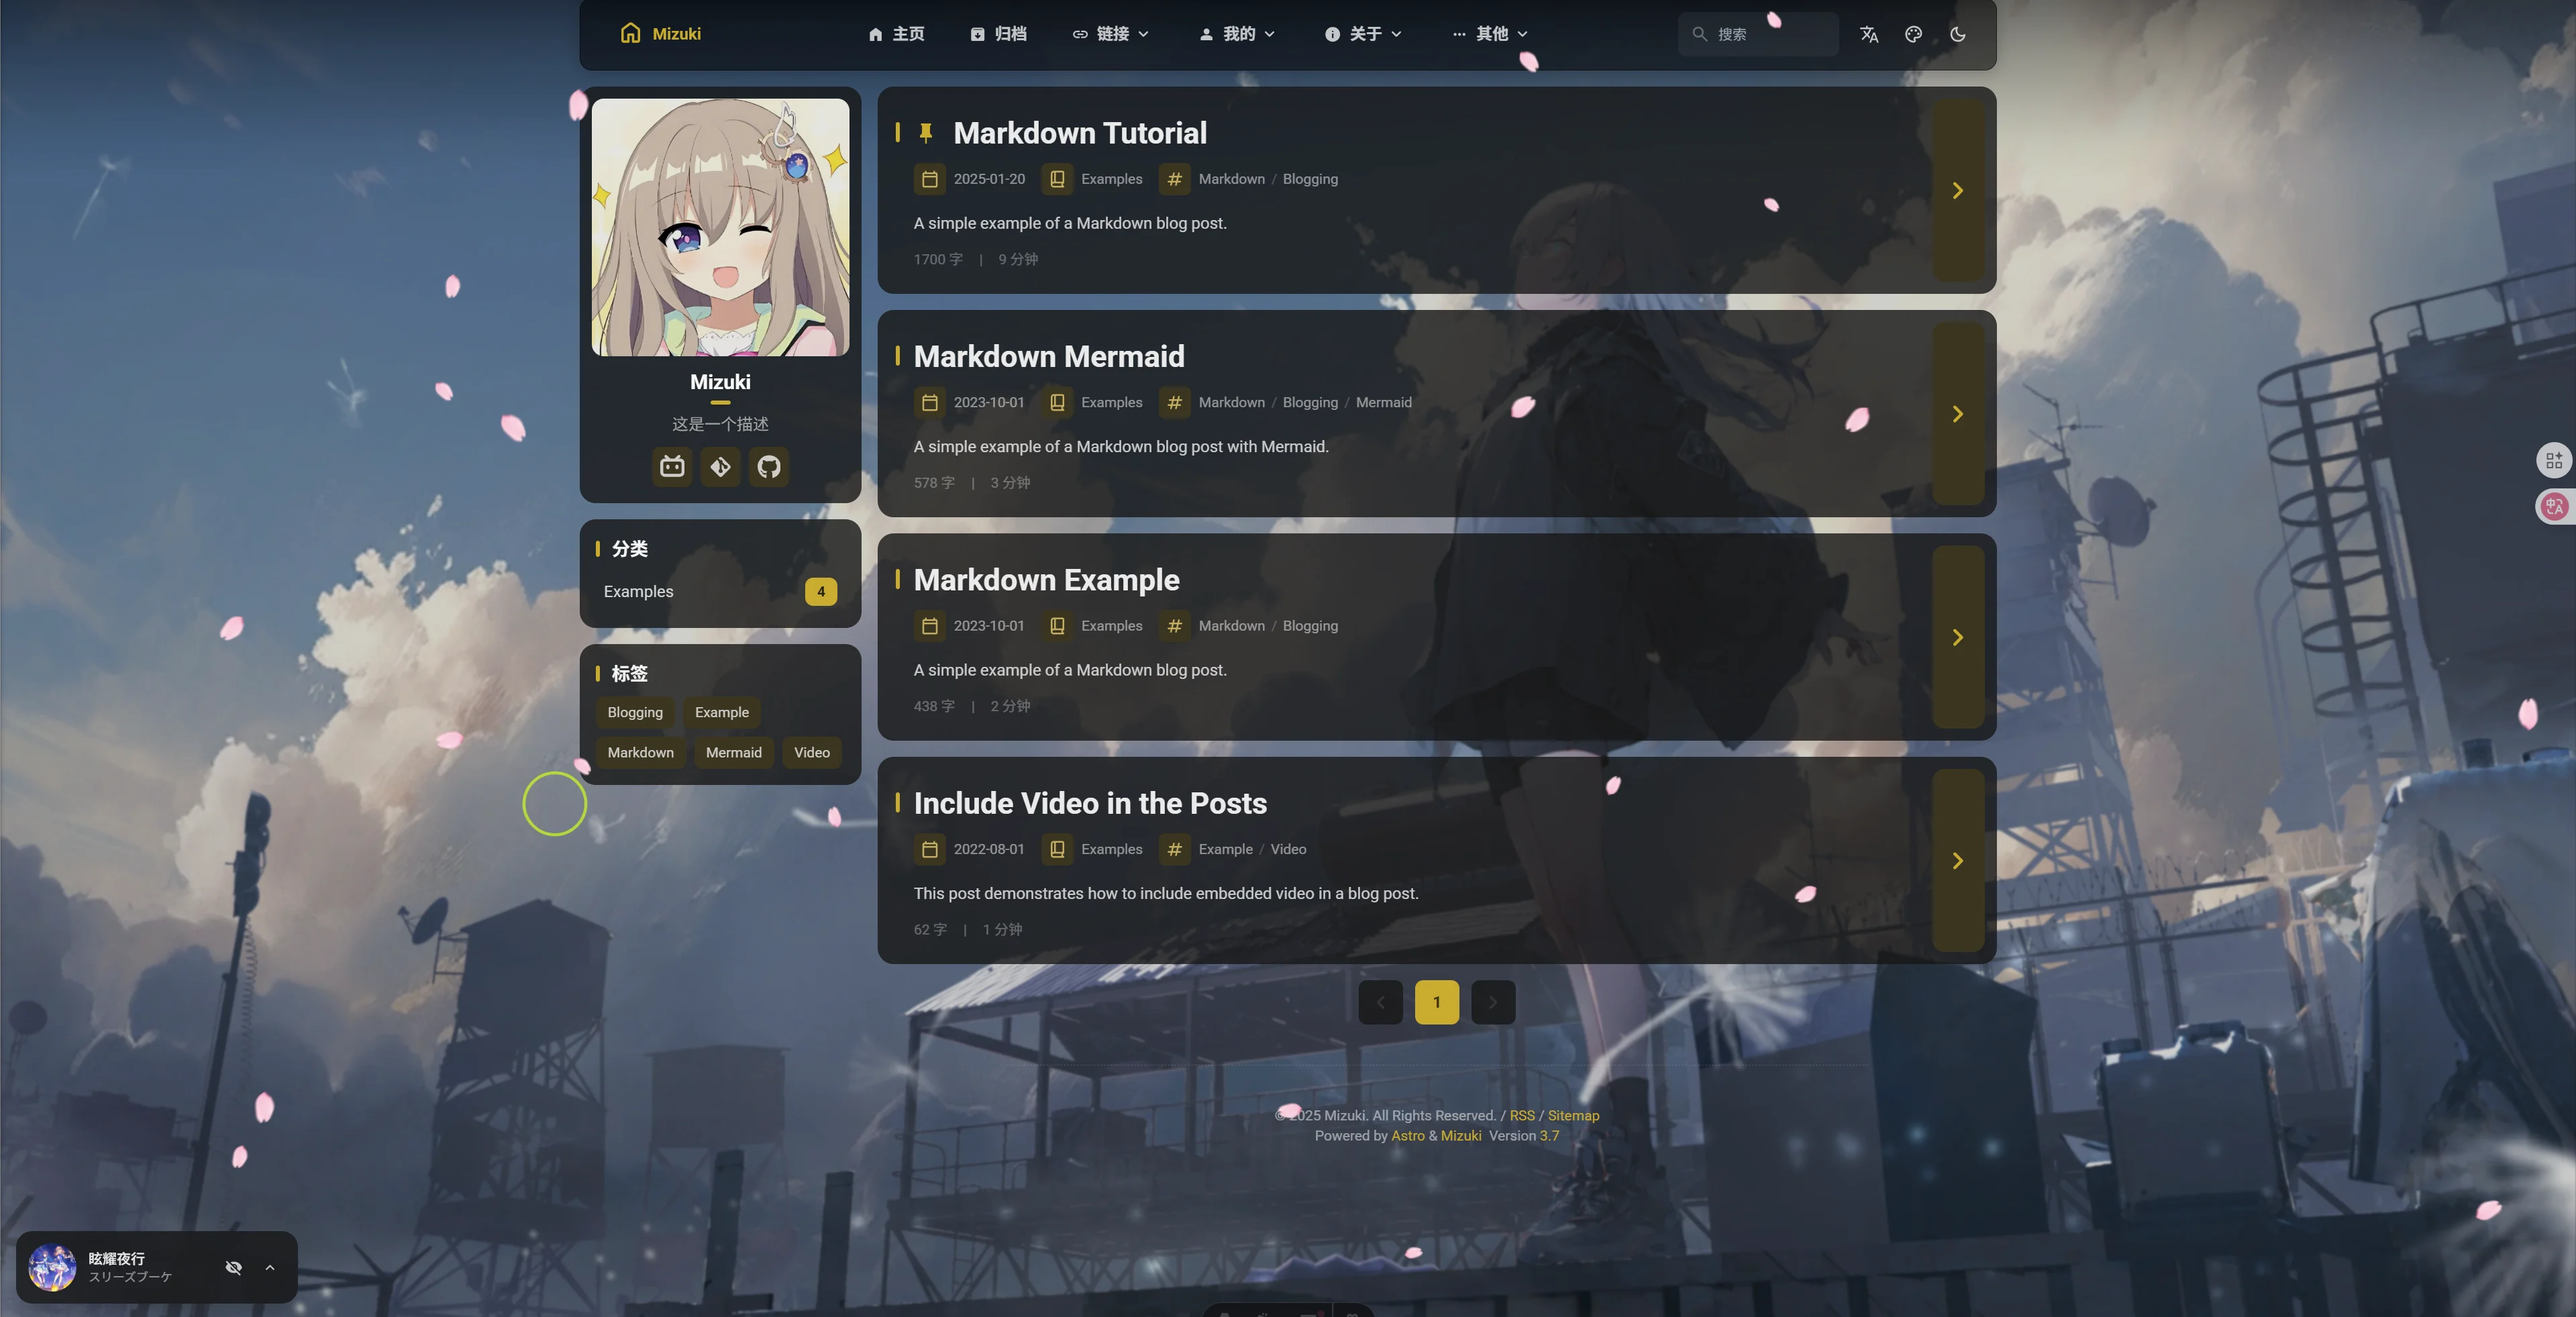
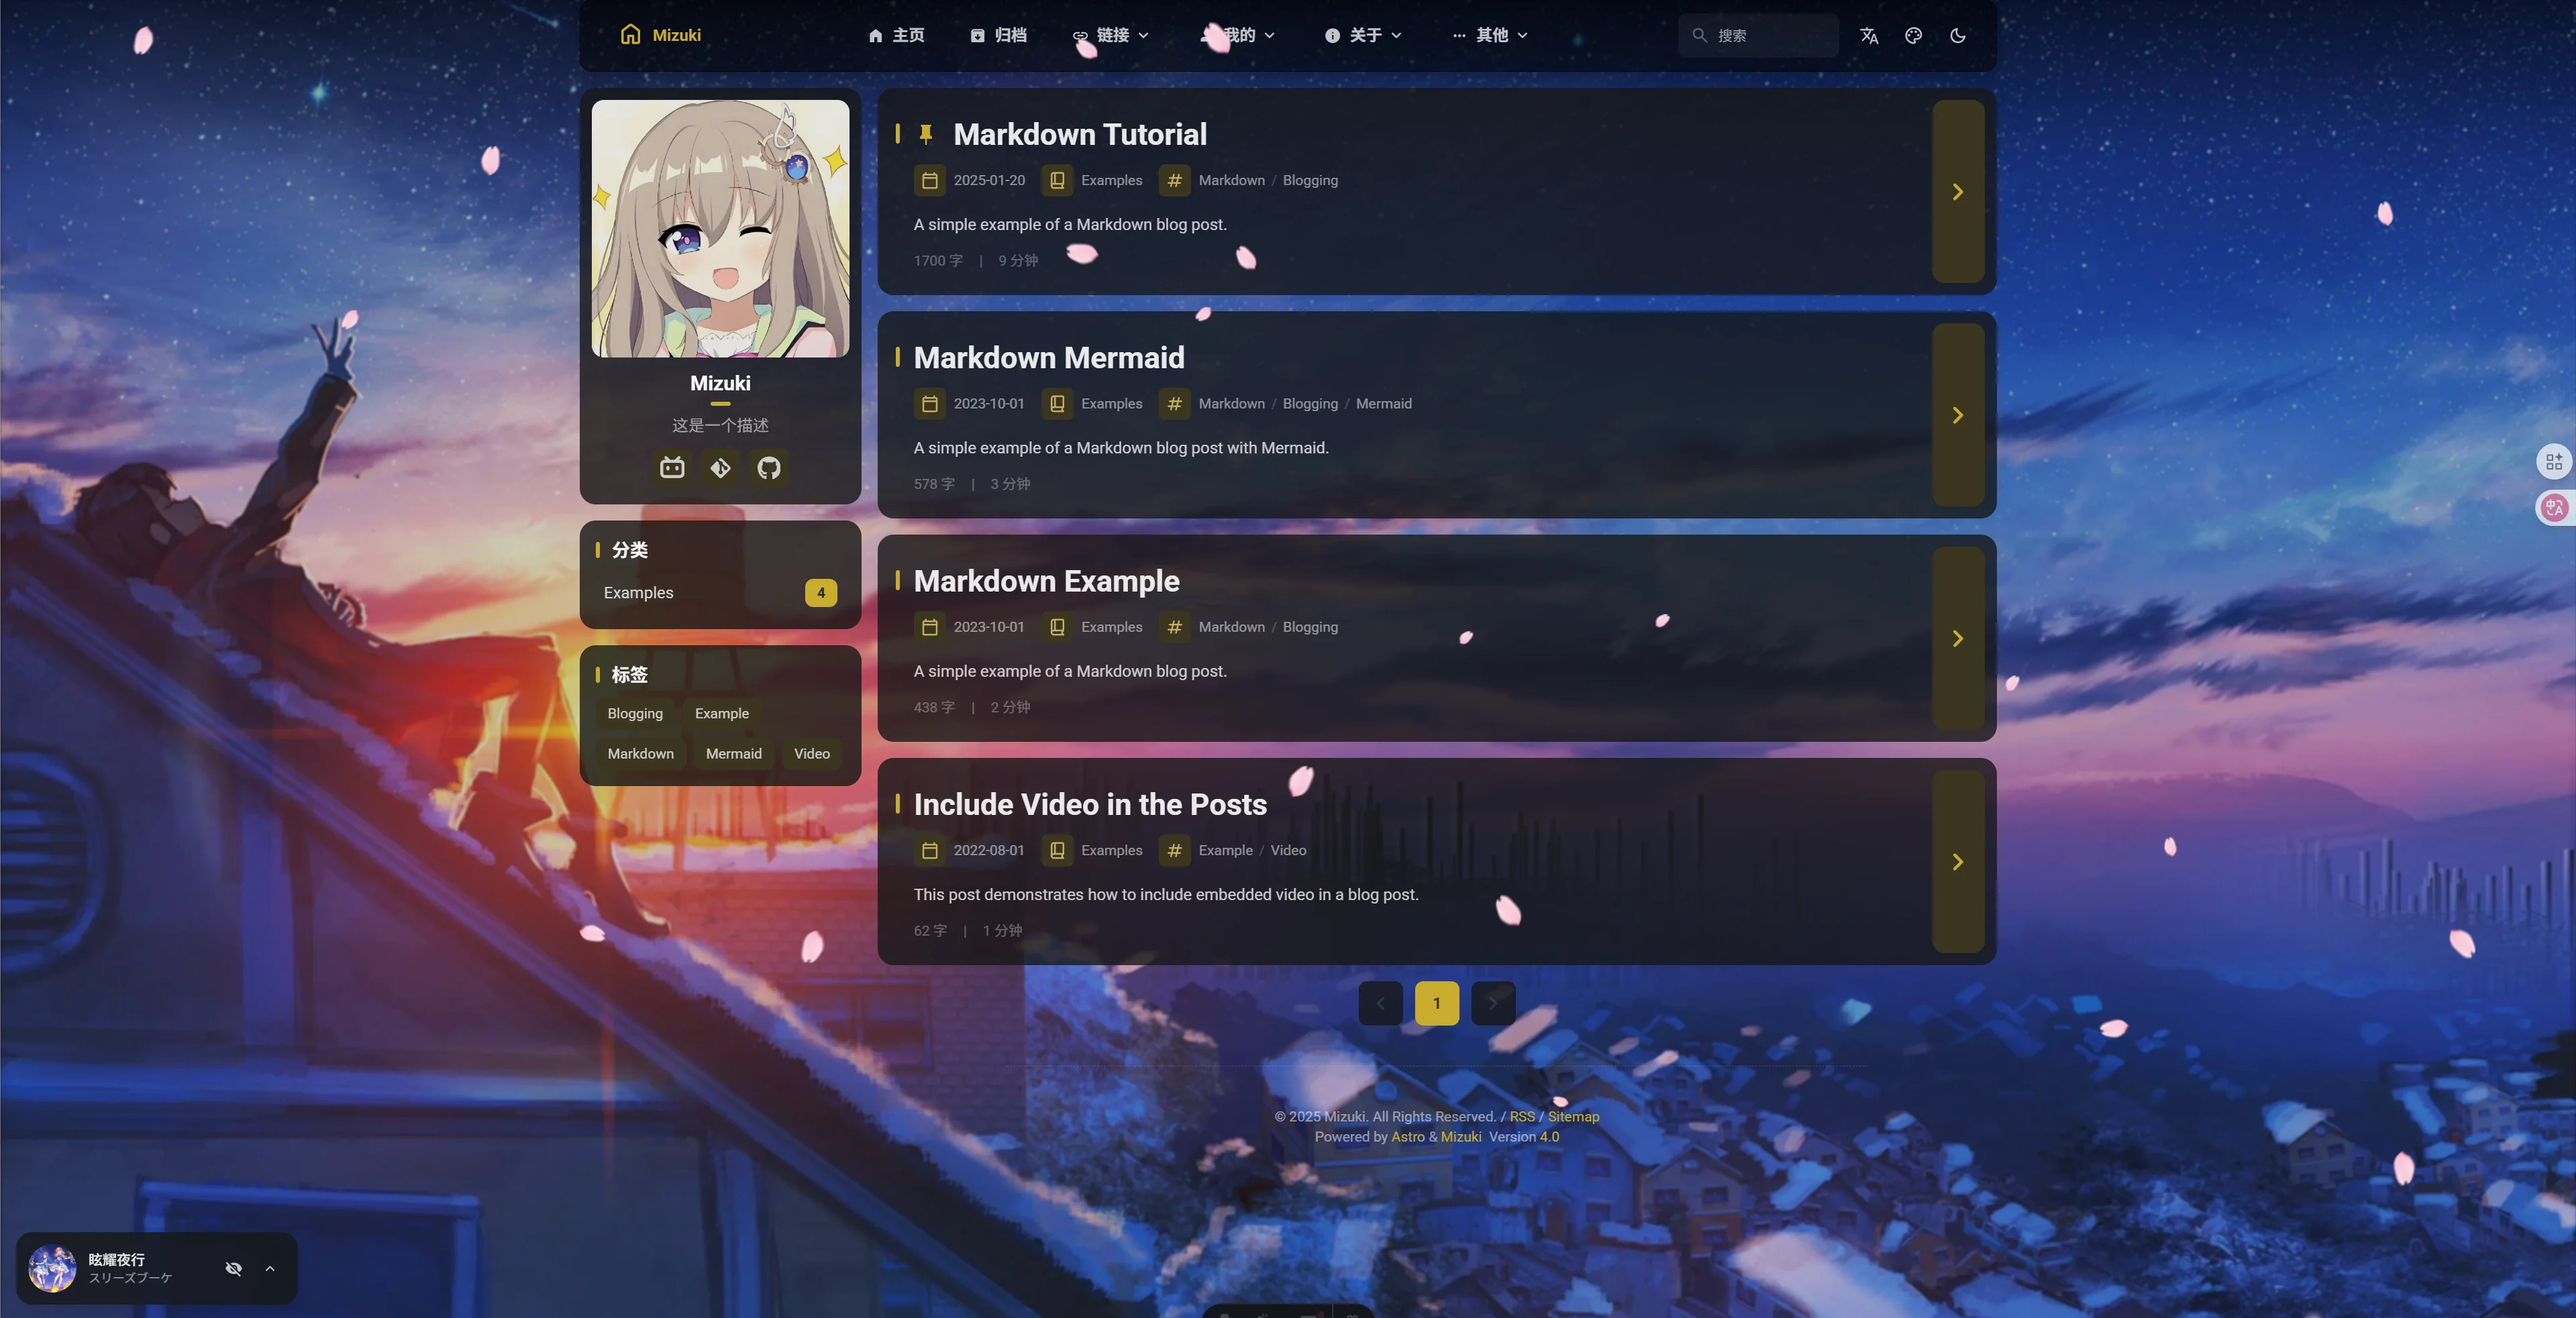
修改文档

diff --git a/src/config.ts b/src/config.ts
@@ -40,7 +40,7 @@ export const siteConfig: SiteConfig = {
 		ignoreTags: ["script", "style", "code", "pre"], // 翻译时忽略的 HTML 标签
 	},
 	banner: {
-		enable: true, // 是否启动Banner壁纸模式
+		enable: false, // 是否启动Banner壁纸模式
 
 		// 支持单张图片或图片数组，当数组长度 > 1 时自动启用轮播
 		src: {
